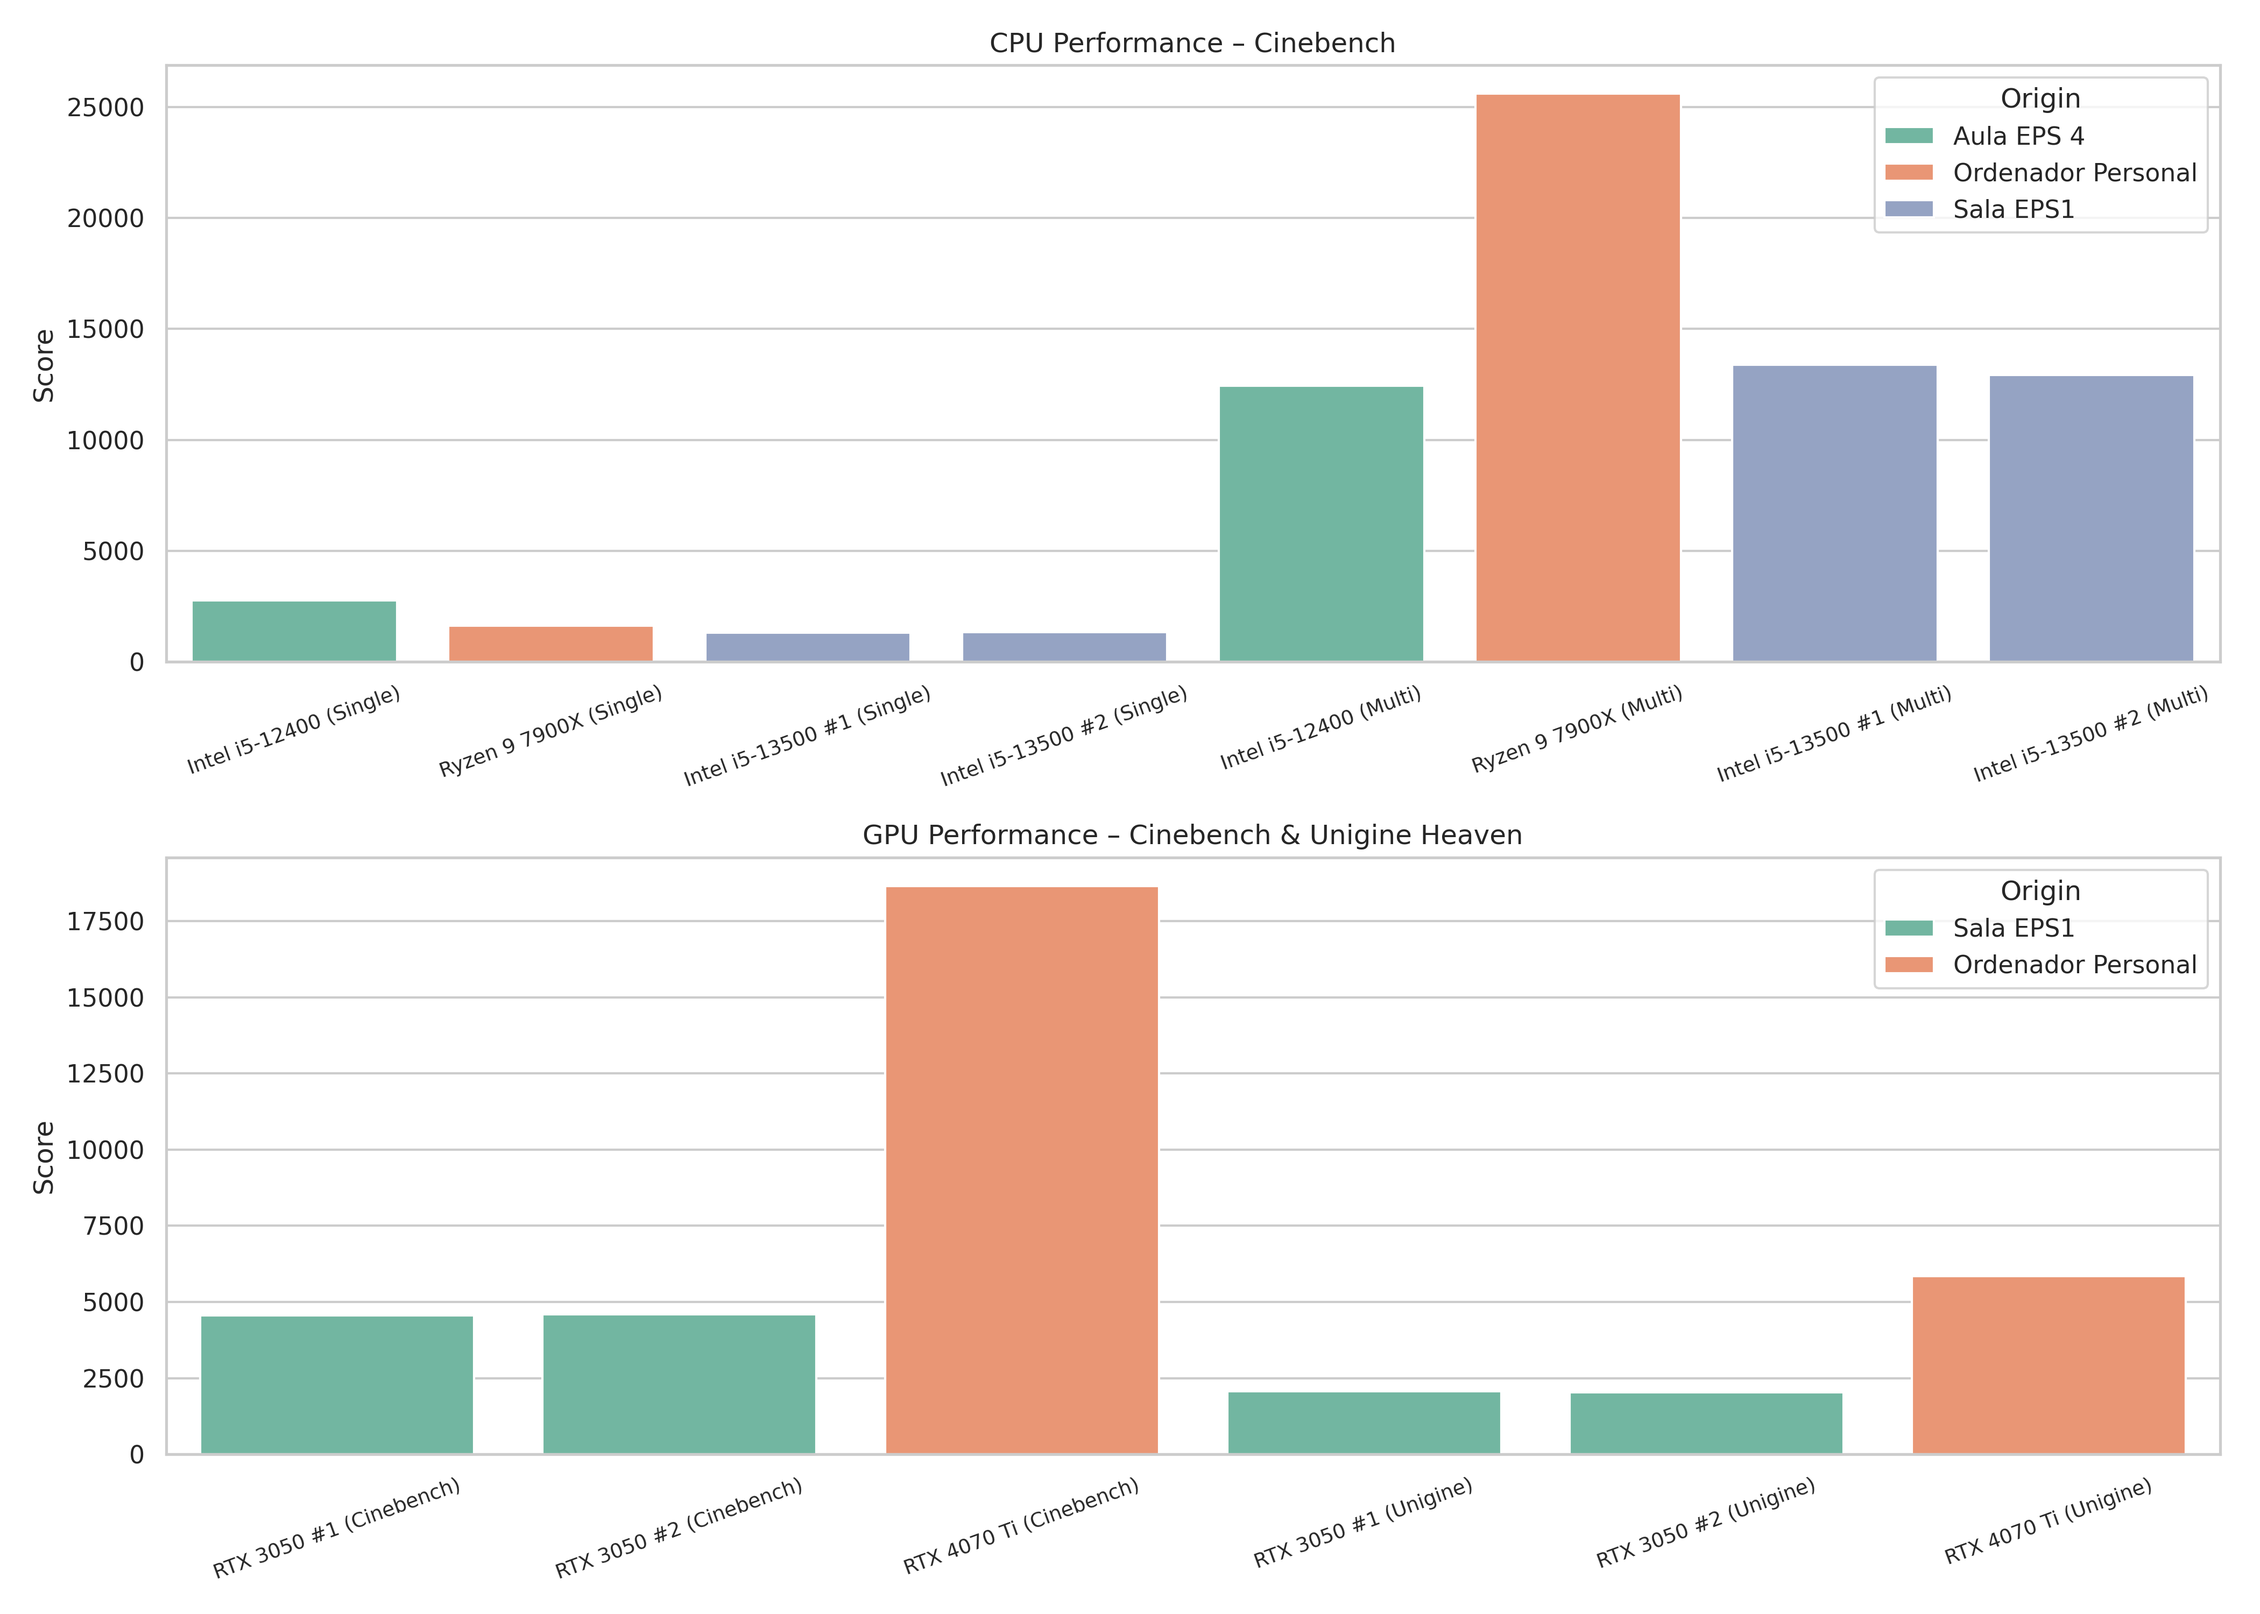
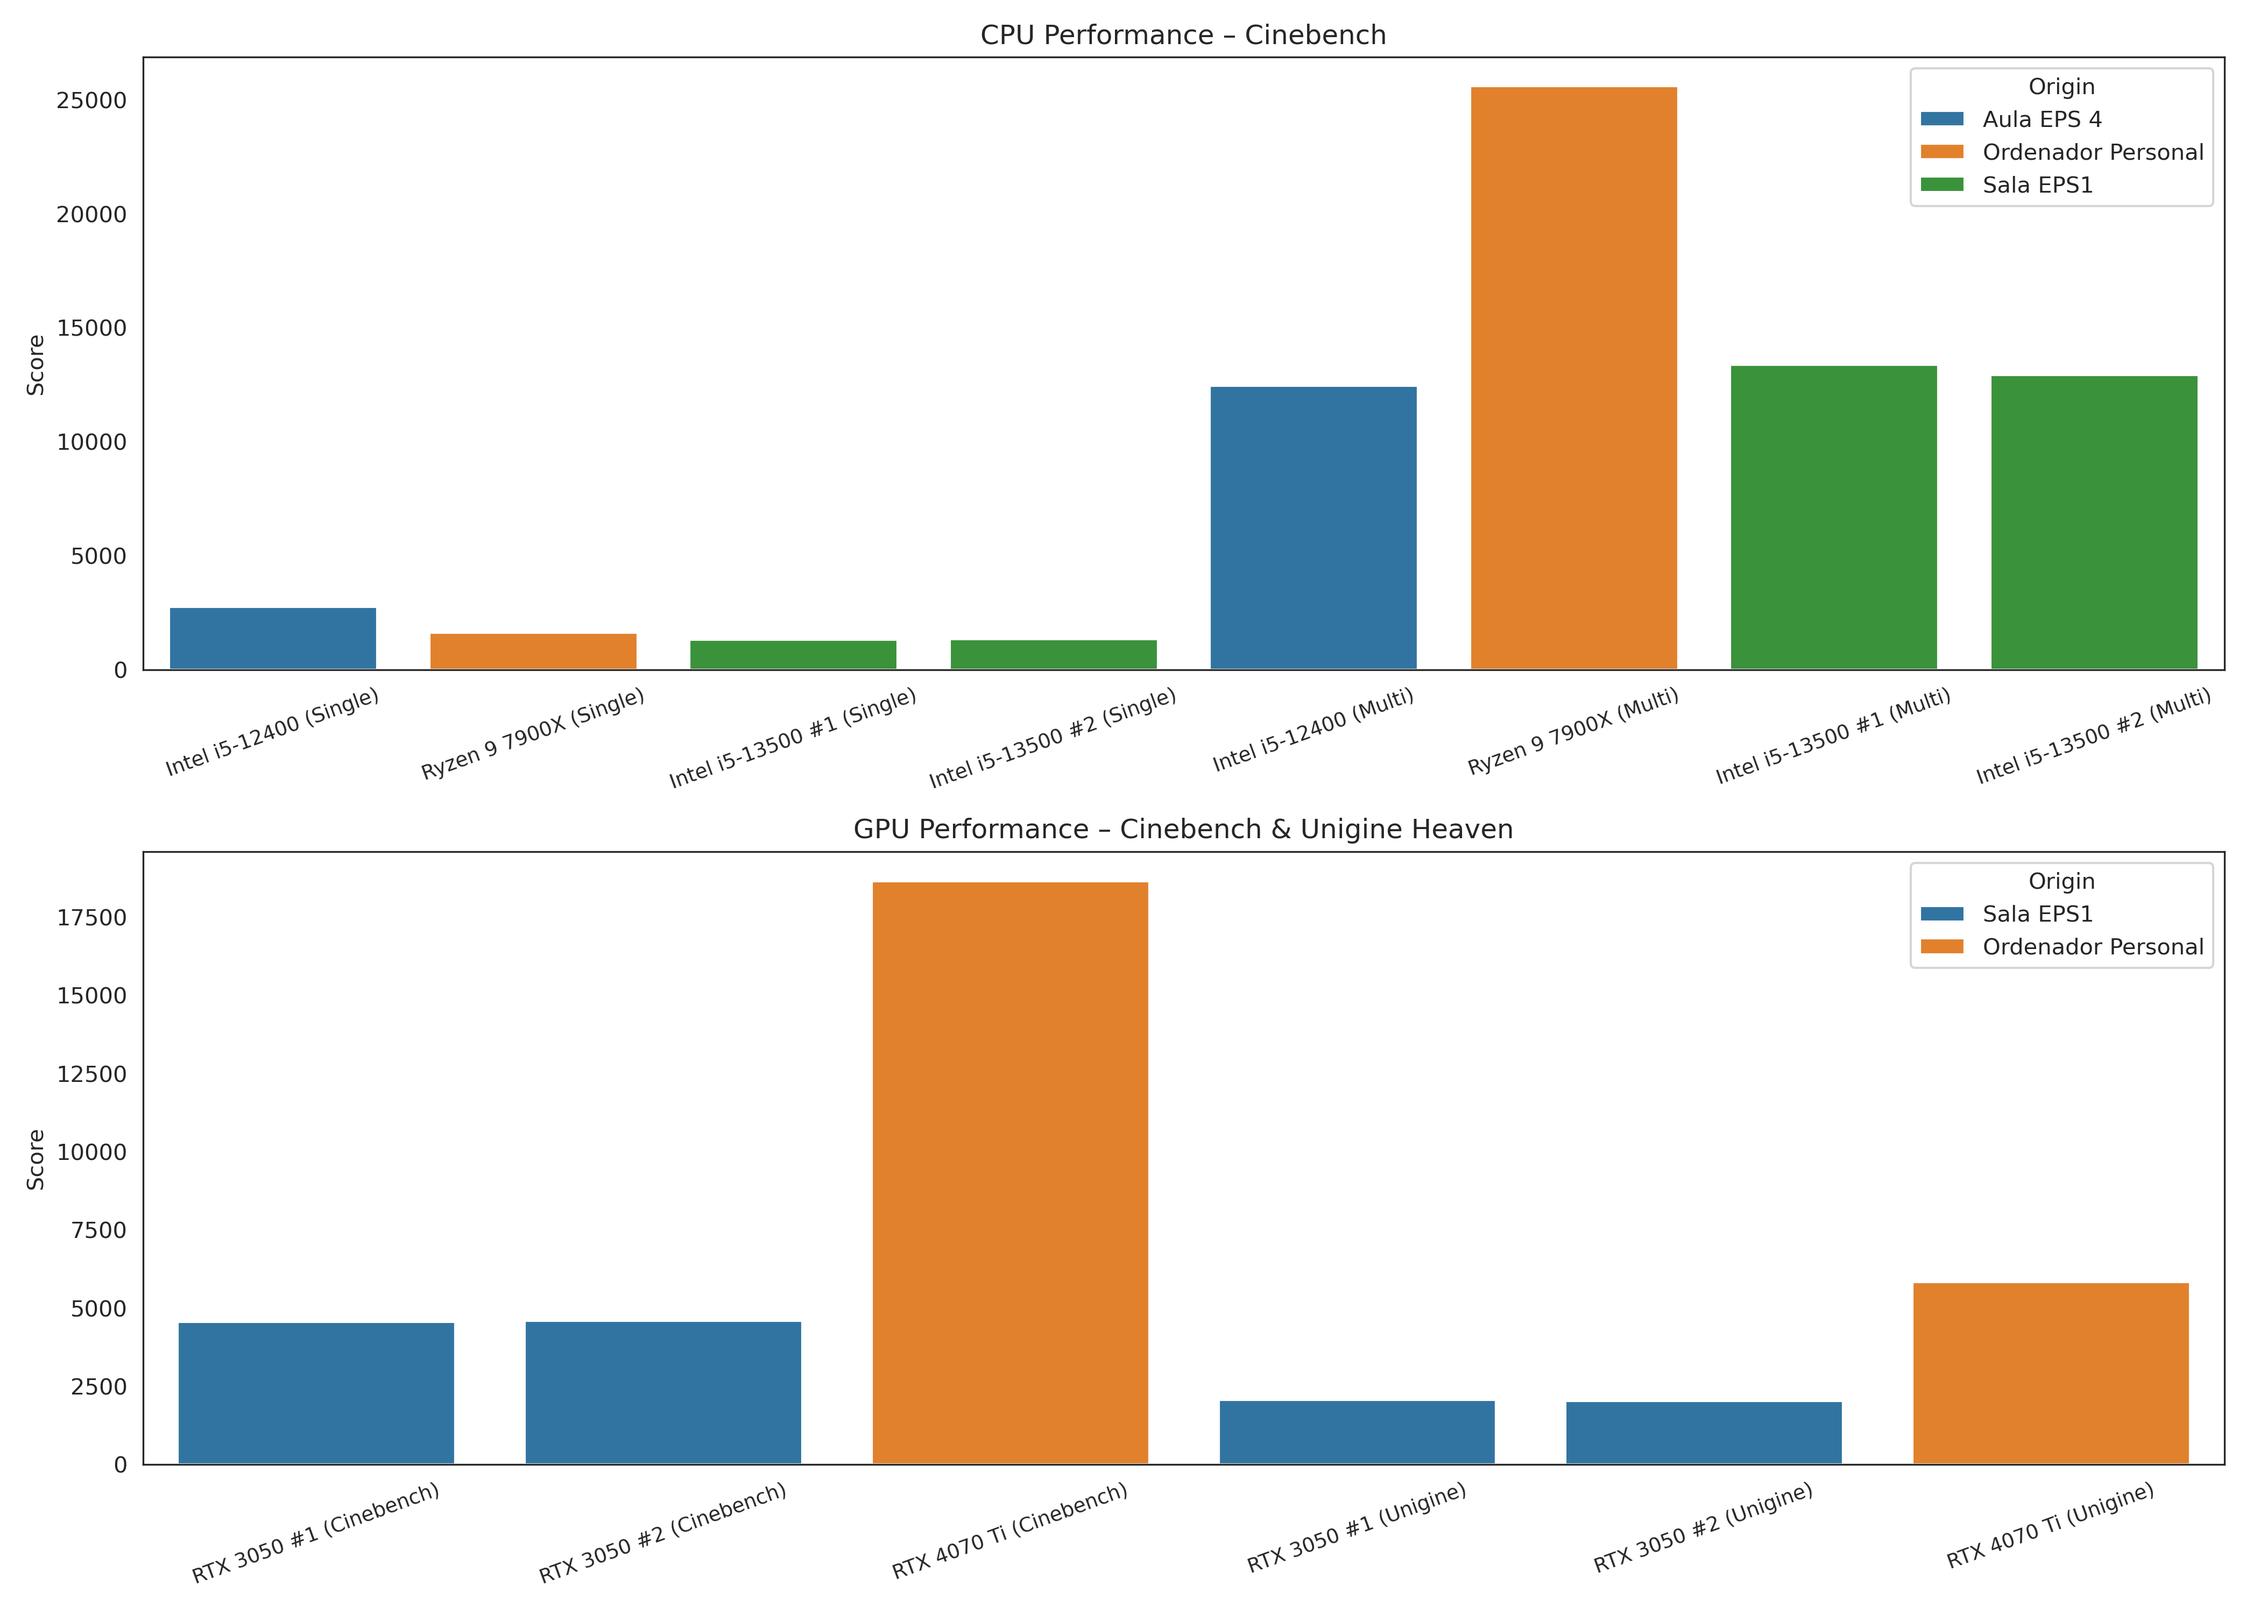
Made Transparent

diff --git a/visu.py b/visu.py
@@ -2,7 +2,8 @@ import matplotlib.pyplot as plt
 import seaborn as sns
 import pandas as pd
 
-sns.set(style="whitegrid", palette="Set2")
+sns.set_style("white")
+
 
 # ======================
 # CPU DATA (each test = one bar)
@@ -118,5 +119,5 @@ plt.tight_layout()
 # ======================
 # SAVE
 # ======================
-plt.savefig("result.png", dpi=300)
+plt.savefig("result.png", dpi=300, transparent=True)
 plt.close()
